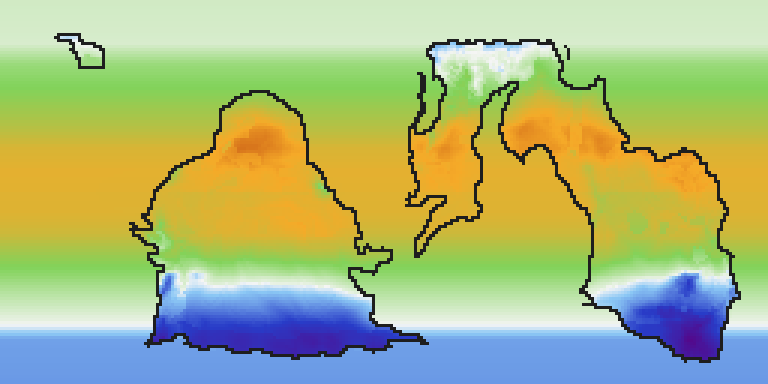
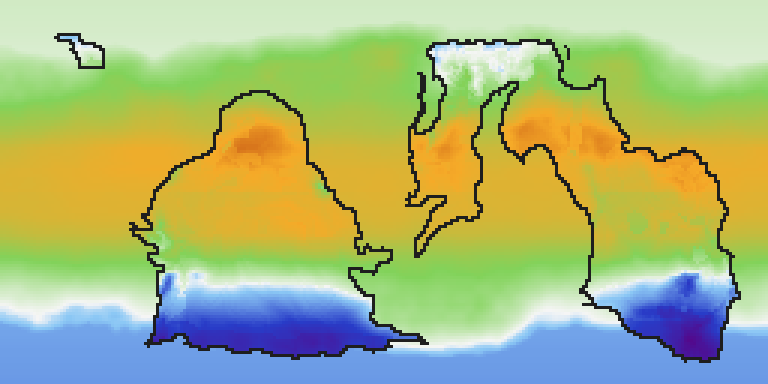
Make the polar ice caps uneven with an ocean-current temperature pattern
Sea temperature no longer depends on latitude alone: an irregular pattern of
warm and cold currents (a few degrees, strongest at 50-80 degrees, half
strength on coasts, fading inland) bends the sea-ice edge into tongues and
bays like the North Atlantic's, instead of a straight band.

Claude-Session: https://claude.ai/code/session_01XcYCq2HL9vr42X7fNiT4yP

diff --git a/src/climate/mod.rs b/src/climate/mod.rs
@@ -4,7 +4,9 @@
 //!
 //! - **Annual mean** from latitude, lowered by altitude (lapse rate), warmed
 //!   by dryness in the subtropics, cooled deep inside high-latitude
-//!   continents. Oceans are milder than land at the same latitude.
+//!   continents. Oceans are milder than land at the same latitude, and an
+//!   irregular pattern of warm and cold ocean currents (strongest at high
+//!   latitudes, also felt on nearby coasts) makes the sea-ice edge ragged.
 //! - **Seasonal swing**, small at the equator and large toward the poles,
 //!   amplified far from the sea (continentality), damped by oceans, lakes
 //!   and rivers, reversed in the southern hemisphere. Water heats up and
@@ -115,6 +117,7 @@ impl Climate {
         let oscillation = Oscillation::new(SimRng::from_seed(rng.next_u64()));
         let drift = Drift::new(SimRng::from_seed(rng.next_u64()));
         let teleconnections = Noise::new(rng.next_u64());
+        let currents = Noise::new(rng.next_u64());
         // Longitude of the oscillation's warm pool (its "eastern Pacific").
         let center_x = rng.below(u64::from(map.width())) as i64;
 
@@ -127,6 +130,7 @@ impl Climate {
                     i,
                     continentality[i],
                     &teleconnections,
+                    &currents,
                     center_x,
                 )
             })
@@ -399,6 +403,7 @@ fn profile(
     i: usize,
     continentality: u16,
     teleconnections: &Noise,
+    currents: &Noise,
     center_x: i64,
 ) -> TileClimate {
     let tile = &map.tiles()[i];
@@ -414,15 +419,23 @@ fn profile(
             .neighbors(i)
             .any(|nb| matches!(map.tiles()[nb].water, Water::Lake | Water::River));
 
+    // Ocean currents: warm and cold anomalies of a few degrees, in an
+    // irregular pattern. Fully felt at sea, half on the coast, fading inland.
+    let (fx, fy) = (
+        (2 * pos.x as i64 + 1) * ONE * 5 / (2 * i64::from(map.width())),
+        (2 * pos.y as i64 + 1) * ONE * 5 / (2 * i64::from(map.width())),
+    );
+    let current = currents.fbm(fx, fy, 5) * 2 * interpolate(&CURRENT_STRENGTH, abs_lat) / ONE;
+
     // Annual mean.
     let zonal = interpolate(&ZONAL_MEAN, abs_lat);
     let mean = match tile.water {
-        Water::Ocean => (zonal + interpolate(&OCEAN_WARMTH, abs_lat)).max(-20),
-        Water::Lake => zonal - lapse,
+        Water::Ocean => (zonal + interpolate(&OCEAN_WARMTH, abs_lat) + current).max(-20),
+        Water::Lake => zonal - lapse + current * (1000 - cont) / 2000,
         _ => {
             let desert_heat = dryness * 20 / 1000 * i64::from(abs_lat < 400);
             let cold_interior = cont * (abs_lat - 300).max(0) * 40 / (600 * 1000);
-            zonal - lapse + desert_heat - cold_interior
+            zonal - lapse + desert_heat - cold_interior + current * (1000 - cont) / 2000
         }
     };
 
@@ -511,6 +524,17 @@ const OCEAN_WARMTH: [(i64, i64); 7] = [
     (700, 75),
     (800, 40),
     (900, 20),
+];
+
+/// Strength of ocean-current temperature anomalies by latitude, tenths °C
+/// (scaled by noise of typically ±0.3-0.5 and doubled).
+const CURRENT_STRENGTH: [(i64, i64); 6] = [
+    (0, 10),
+    (300, 30),
+    (500, 80),
+    (650, 120),
+    (800, 100),
+    (900, 60),
 ];
 
 /// Typical half summer-winter difference over land, tenths °C.

diff --git a/README.md b/README.md
@@ -123,7 +123,7 @@ never shift other subsystems' random numbers. Tuning lives in `ClimateConfig`.
 
 | | Freezes | Grows / melts |
 | --- | --- | --- |
-| **Sea ice** | below −1.8 °C | Stefan's law (thin ice grows fast, thick slowly), slower than lakes; melts at 15 mm/°C·day |
+| **Sea ice** | below −1.8 °C; edge bent by warm and cold ocean currents | Stefan's law (thin ice grows fast, thick slowly), slower than lakes; melts at 15 mm/°C·day |
 | **Lake ice** | below 0 °C | Stefan's law, α ≈ 2.4 cm/√(°C·day) |
 | **River ice** | below 0 °C | like lakes, slower (flowing water) |
 | **Snow** | precipitation at ≤ +1 °C | melts at 4 mm/°C·day |
